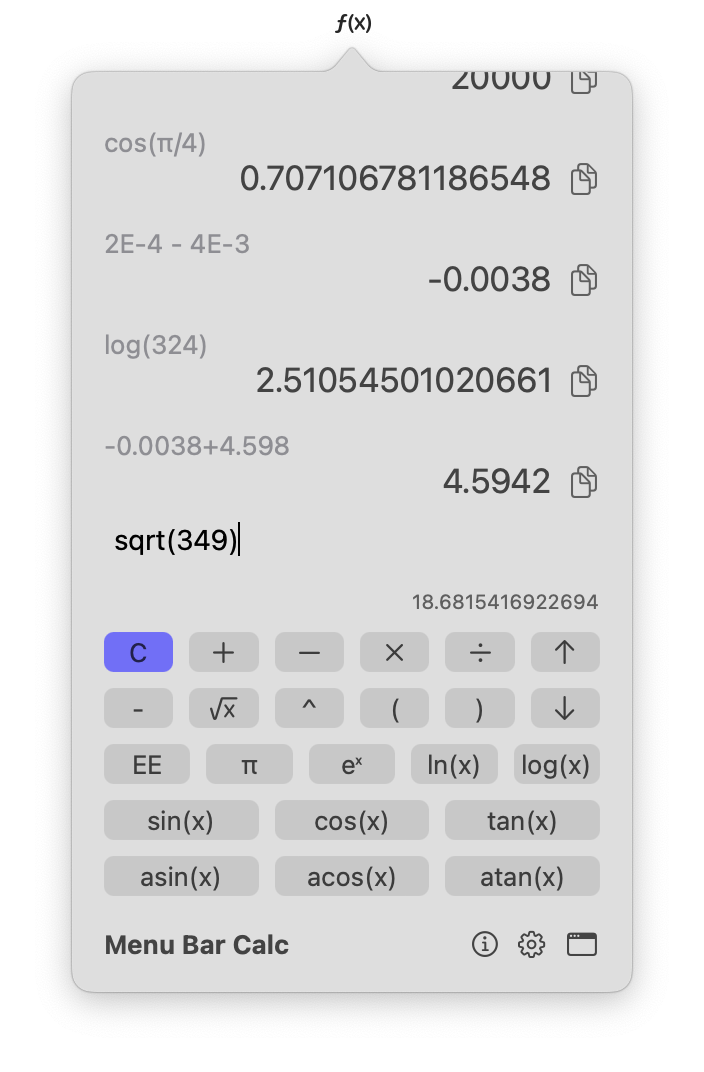
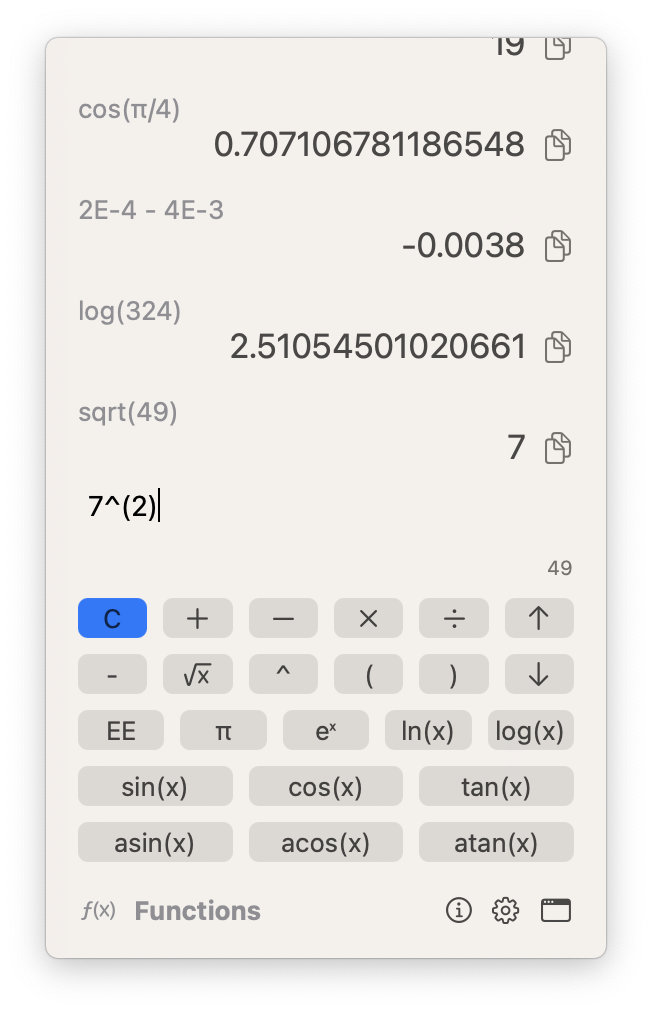
Now called Functions!

diff --git a/README.md b/README.md
@@ -1,6 +1,6 @@
-# Menu Bar Calculator for macOS
+# Functions
 
-A calculator that lives in your menu bar and keeps a history of your calculations
+A calculator that lives in your macOS menu bar and keeps a history of your calculations
 
 <div align="left">
   	<img width="300" src="media/menubar_dark.png#gh-dark-mode-only" alt="Calculator in the menu bar">
